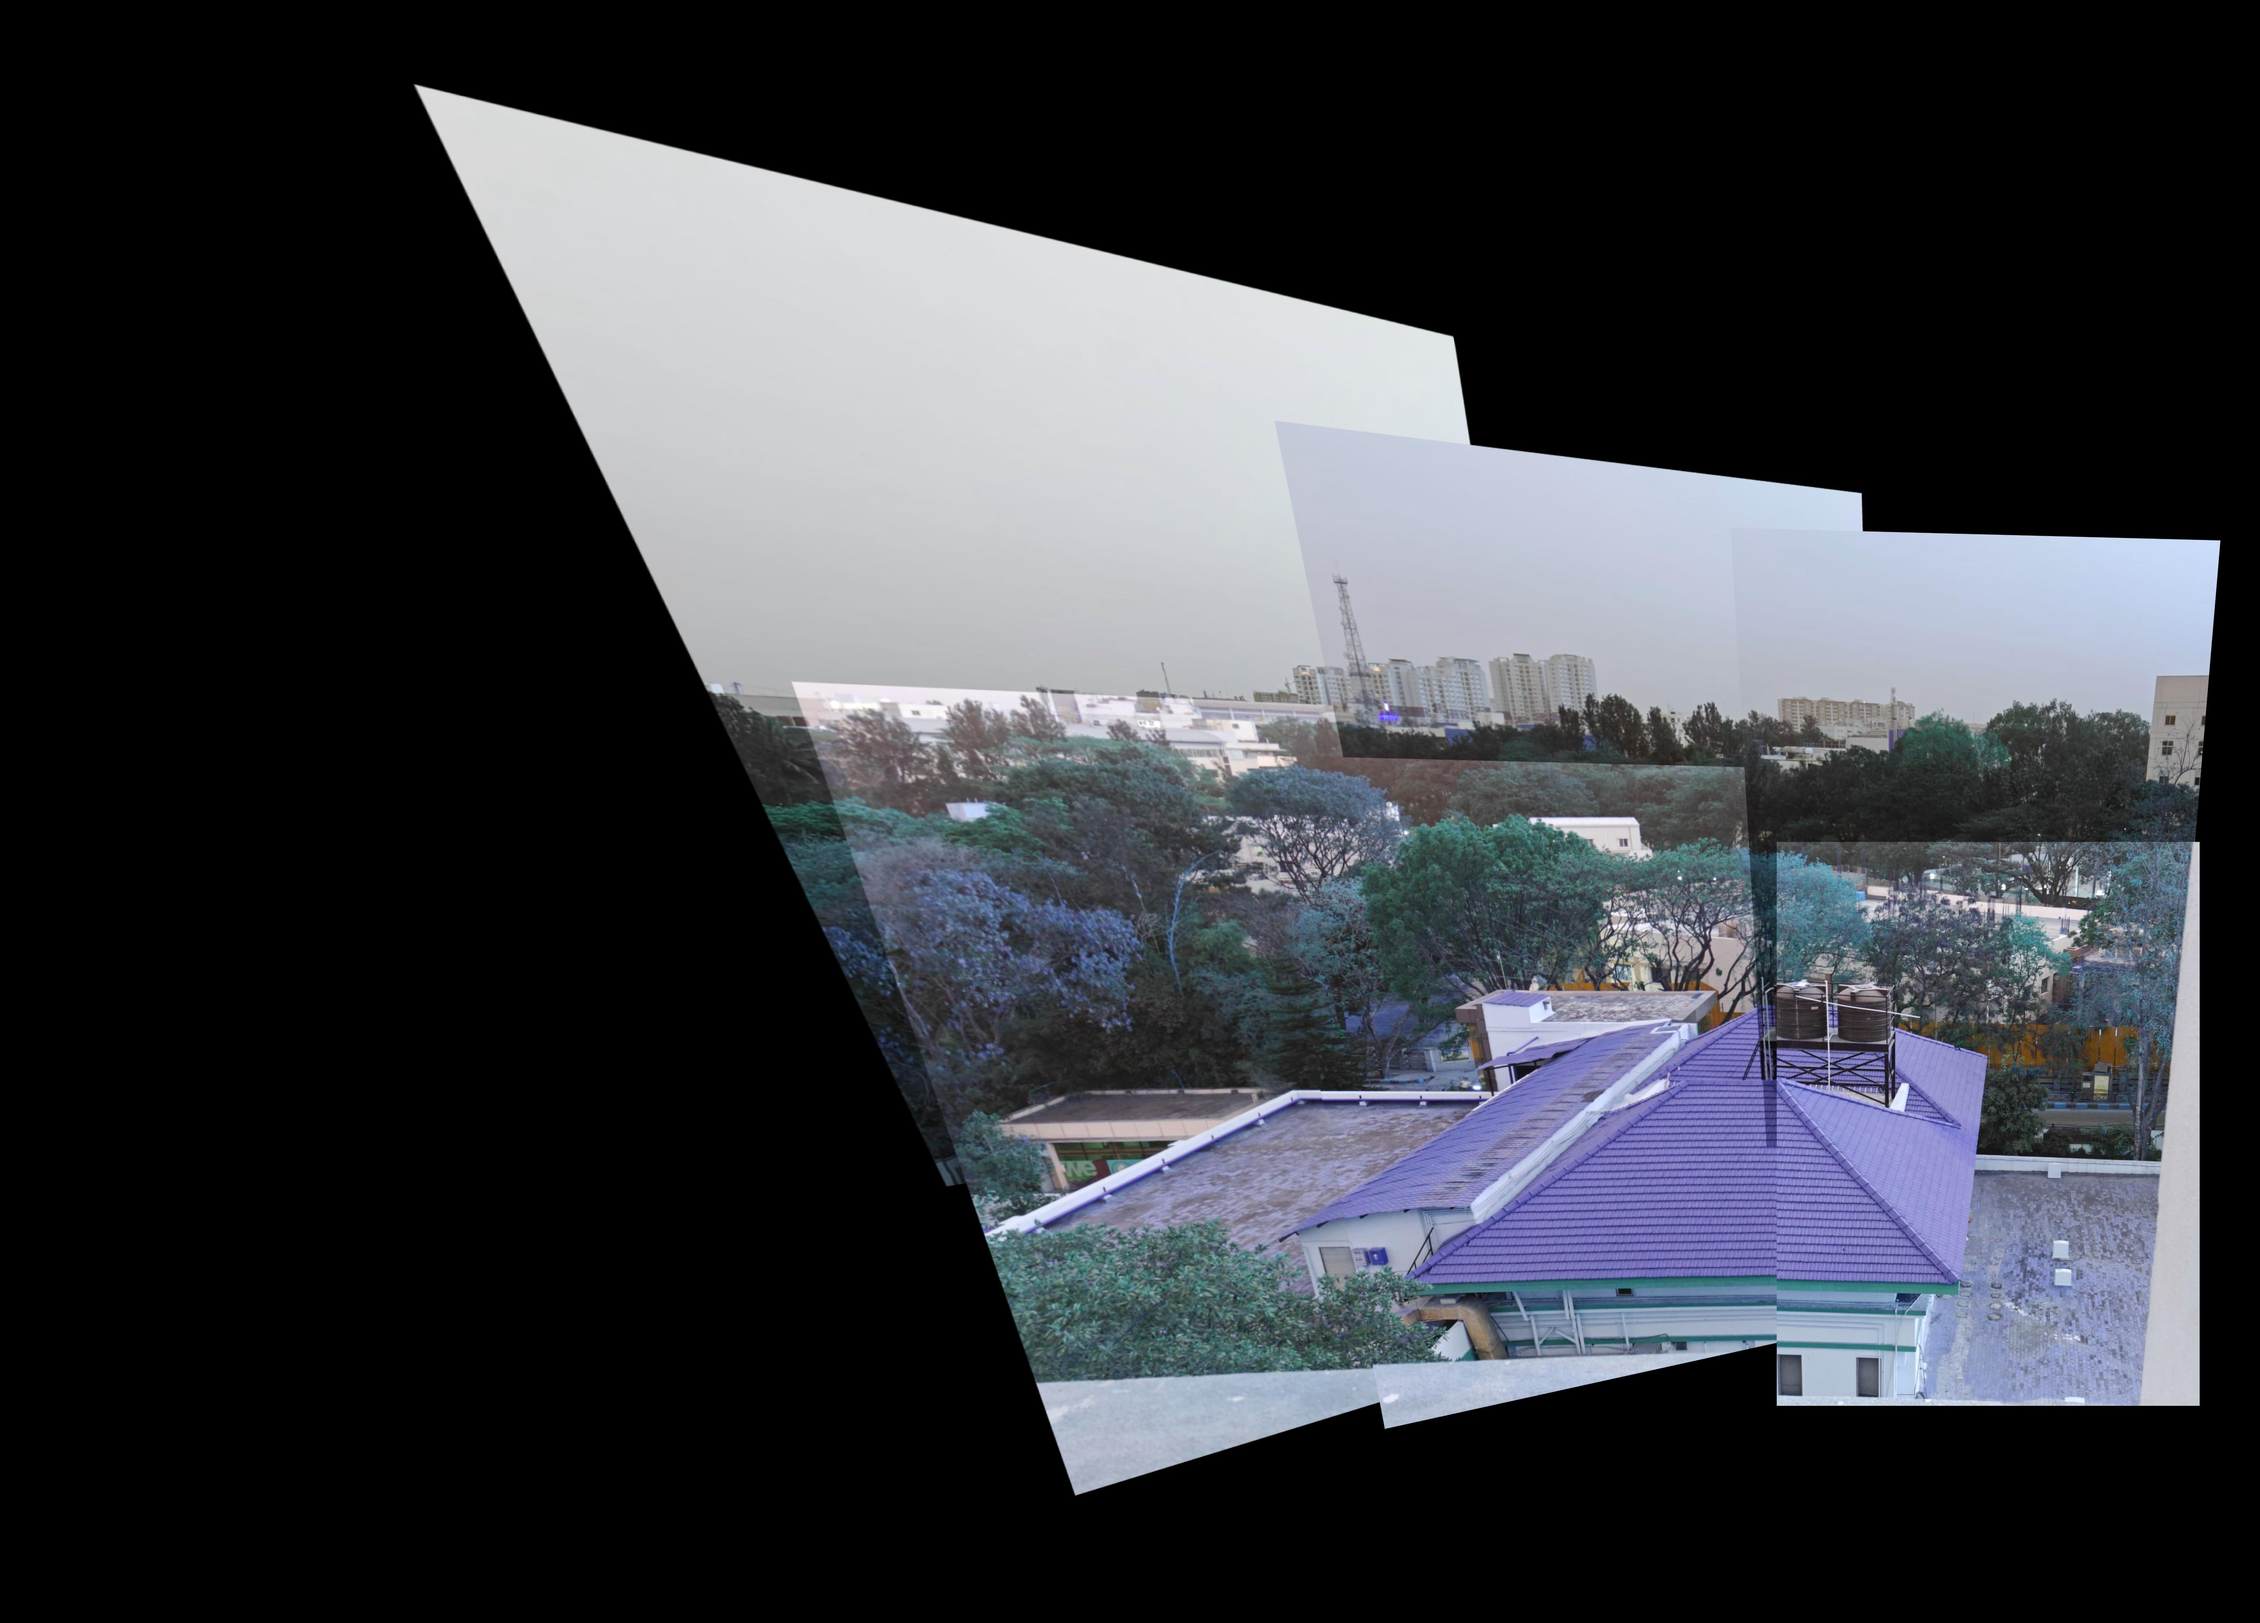
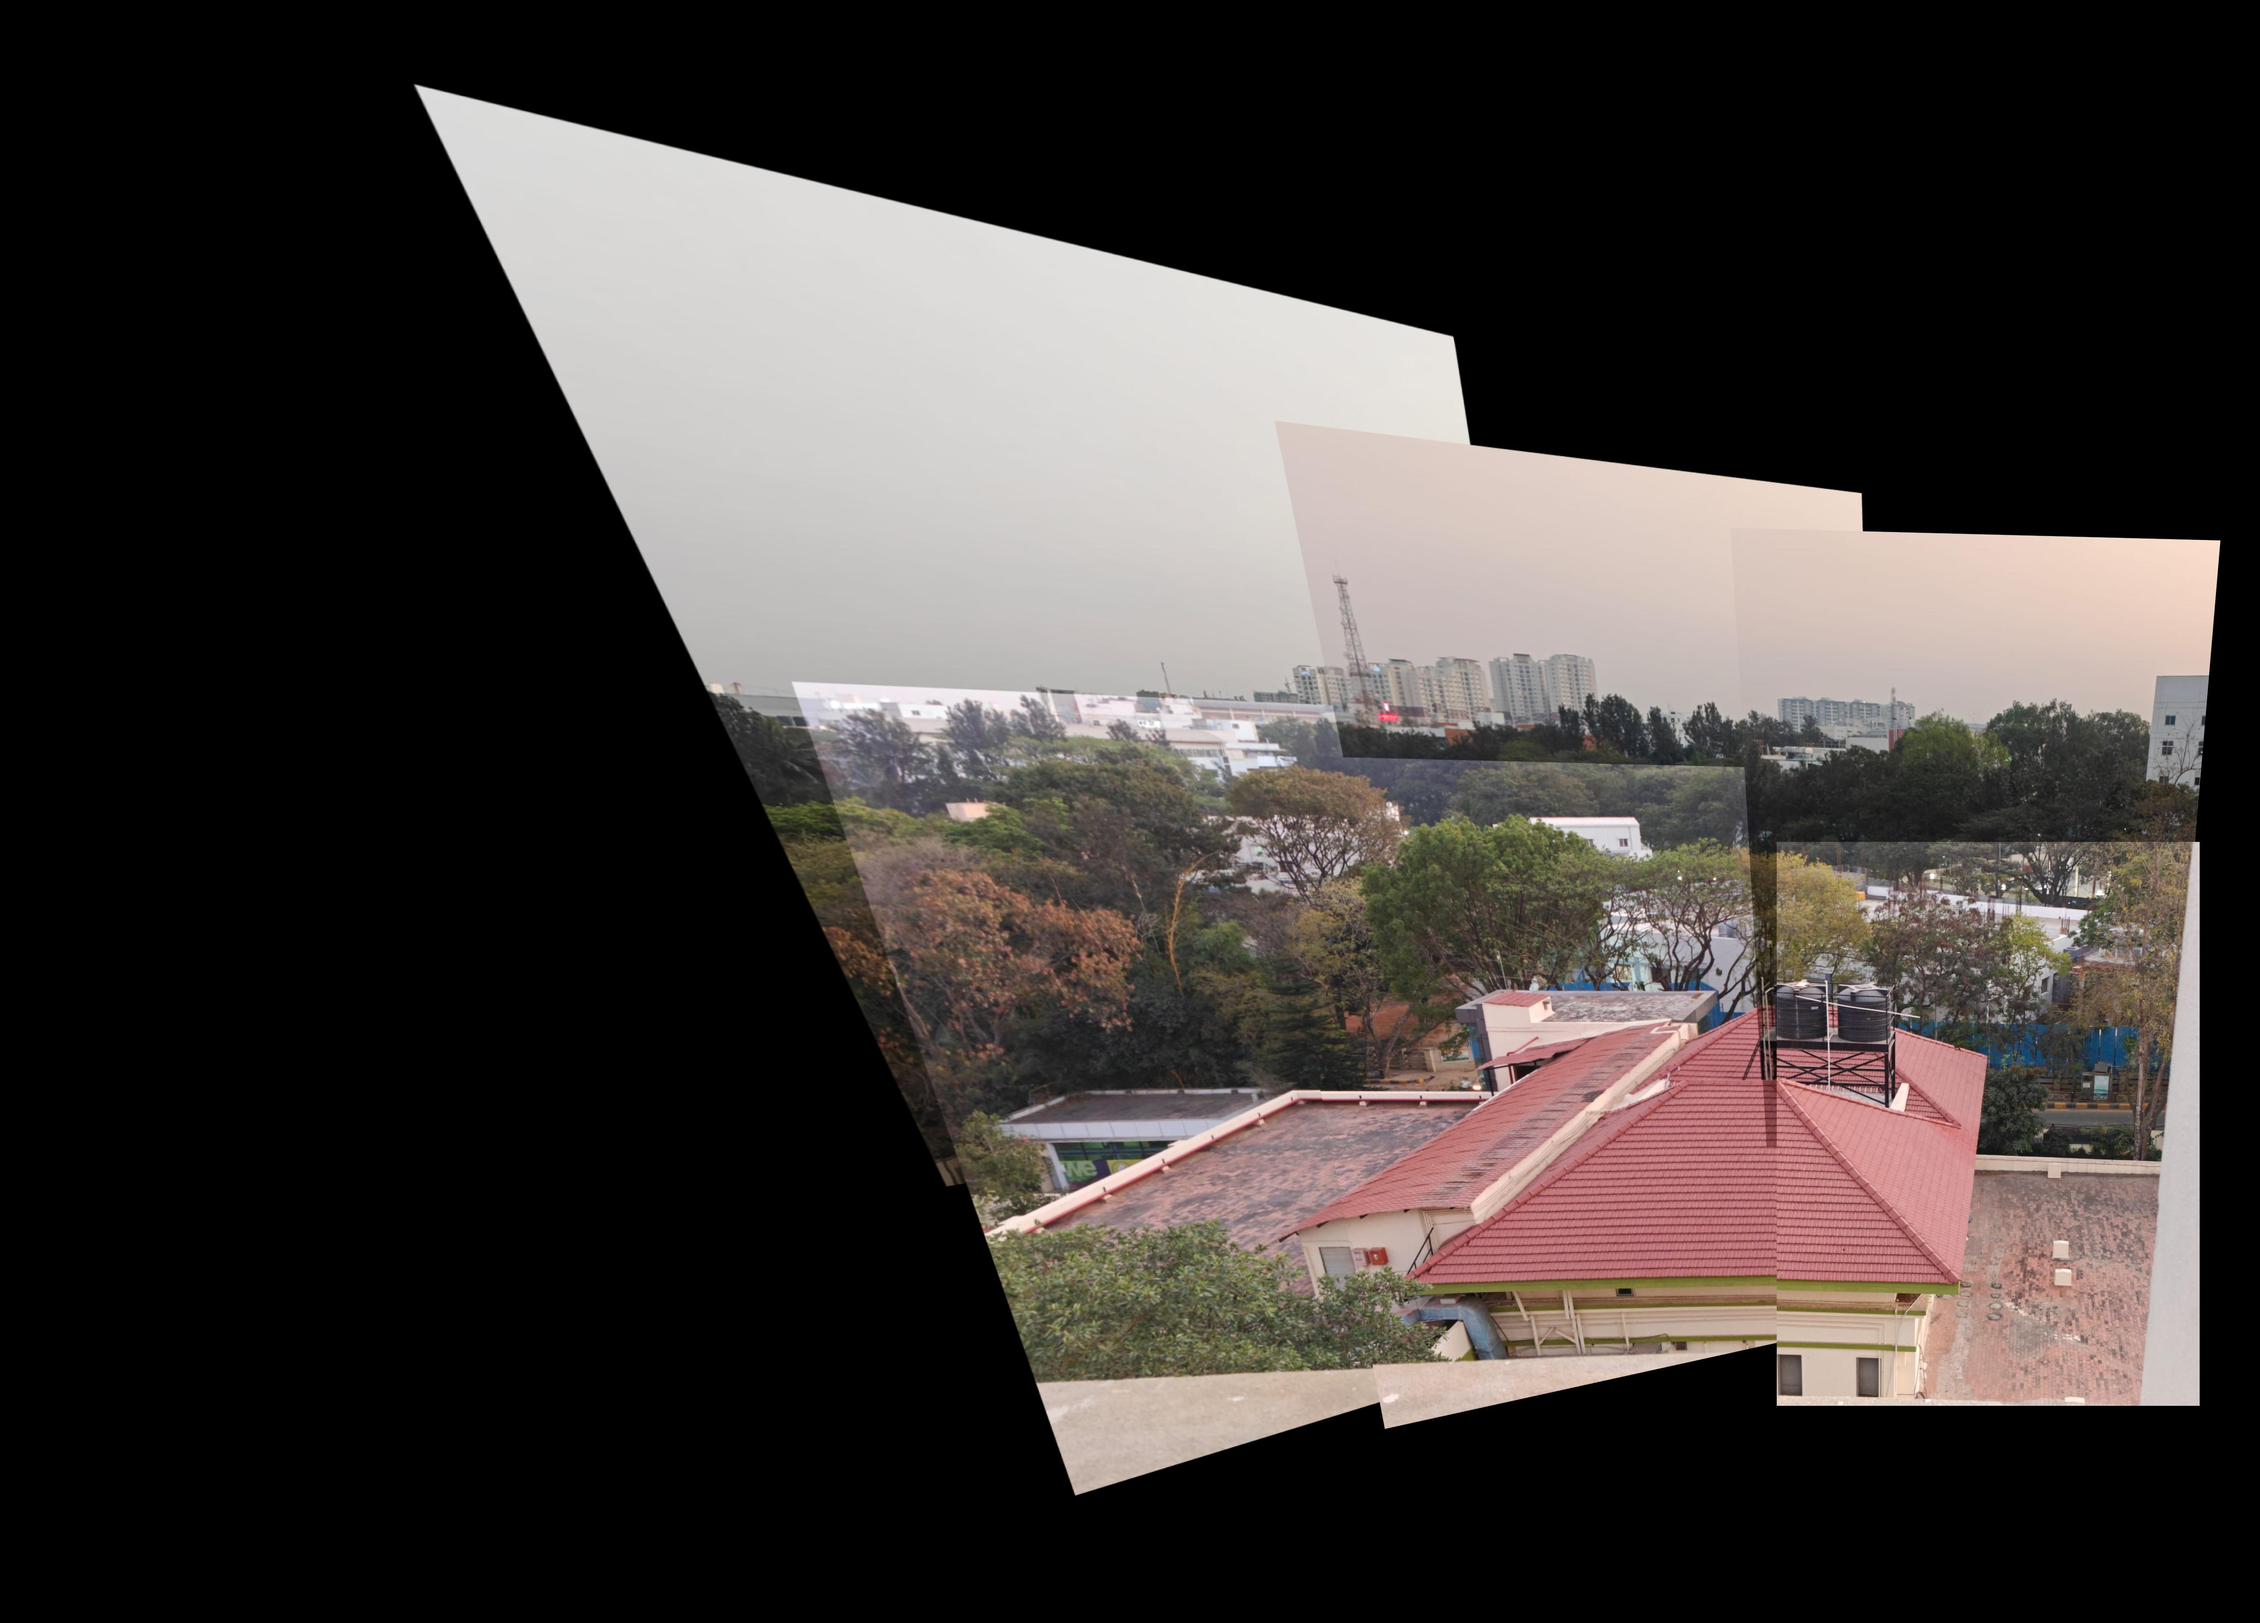
Update stitching saving color issue

Changed region(s): [[0.3431, 0.437, 0.9669, 0.9365], [0.6238, 0.2497, 0.9981, 0.437], [0.8421, 0.437, 0.8733, 0.4682]]

diff --git a/stitching.py b/stitching.py
@@ -93,6 +93,7 @@ stitched_result = stitch_images(image_files)
 stitched_result2 = stitch_images(image_files2)
 stitched_result3 = stitch_images(image_files3)
 
+
 # Display images
 
 plt.figure(figsize=(8, 4))
@@ -115,6 +116,7 @@ plt.show()
 
 
 # Save images
-plt.imsave("output/2/stitched_output_clicked.jpg", stitched_result) 
-plt.imsave("output/2/stitched_output_clicked2.jpg", stitched_result2) 
-plt.imsave("output/2/stitched_output_online.jpg", stitched_result3) 
+plt.imsave("output/stitching/stitched_output_clicked.jpg", cv2.cvtColor(stitched_result, cv2.COLOR_BGR2RGB)) 
+plt.imsave("output/stitching/stitched_output_clicked2.jpg", cv2.cvtColor(stitched_result2, cv2.COLOR_BGR2RGB)) 
+plt.imsave("output/stitching/stitched_output_online.jpg", cv2.cvtColor(stitched_result3, cv2.COLOR_BGR2RGB))  
+
